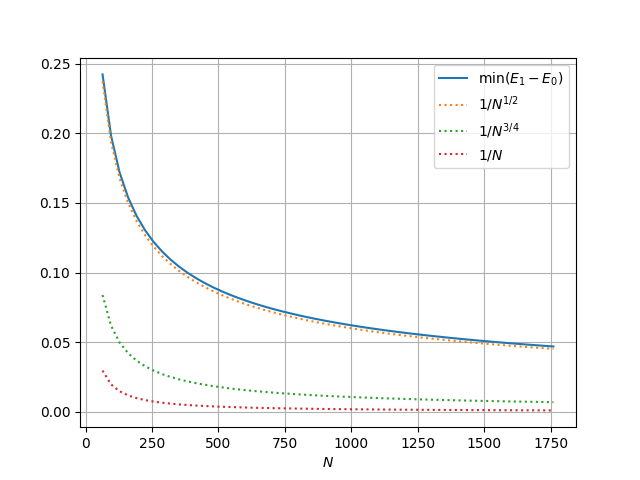
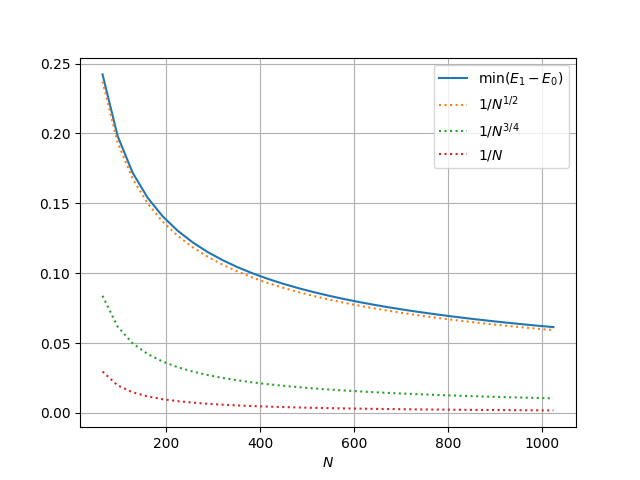
more plots

diff --git a/qualk/config.py b/qualk/config.py
@@ -24,7 +24,7 @@ parameters = {
     'alpha'                     : alpha,
     'dimensions'                : 1760, # this is the dimensions of the Hamiltonian
     'lattice_dimension'         : lat_d, # this is the physical lattice dimensions
-    'marked_state'              : 50,
+    'marked_state'              : 5,
     'save_tag'                  : '', # Adds an additional message to the saved plot filename
     'init_state'                : '', # TODO: implement for all states: 'm', 'a', 's', 'sq', 'b'
     'use_init_state'            : False,
@@ -44,7 +44,7 @@ parameters = {
     },
 
     'p3'                        : {
-        'start_dimensions'          : 64,
+        'start_dimensions'          : 1600,
         'end_dimensions'            : 1760,
         'step_dimensions'           : 32,
         'save_plots'                : True

diff --git a/qualk/optimise/optimum_gammaNs.py b/qualk/optimise/optimum_gammaNs.py
@@ -6,14 +6,14 @@ from ..quantum.hamiltonian import Hamiltonian
 parameters = {
     'ring'                : True,
     'lattice_dimensions'  : 1,
-    'start_dimensions'    : 64,
+    'start_dimensions'    : 1728,
     'end_dimensions'      : 1760,
     'step_dimensions'     : 32,
     'marked_state'        : 64,                     
-    'alpha'               : 1,
-    'start_gammaN'        : 4, 
-    'end_gammaN'          : 114,
-    'number_of_points'    : 110,
+    'alpha'               : 3,
+    'start_gammaN'        : 100, 
+    'end_gammaN'          : 180,
+    'number_of_points'    : 80,
 }
 
 

diff --git a/qualk/quantum/hamiltonian.py b/qualk/quantum/hamiltonian.py
@@ -59,7 +59,7 @@ class Hamiltonian:
             def coef(row, col):
                 return 1/((np.abs(col-row))**(self.alpha))
         if self.alpha:                      
-            H = -self.gamma*np.array([[coef(row, col) if col != row else 1 
+            H = -self.gamma*np.array([[coef(row, col) if col != row else 1
                                                 for col in range(self.dimensions)] 
                                                     for row in range(self.dimensions)]) 
             H[(self.marked-1, self.marked-1)] = H[(self.marked-1, self.marked-1)] - 1

diff --git a/main.py b/main.py
@@ -8,4 +8,6 @@ from qualk.plotting import (p1_eigenstate_amplitudes_against_gammaN,
 
 
 if __name__ == "__main__":
+    #optimum_gammaNs.optimise()
+
     p3_min_gap_against_N.run()
